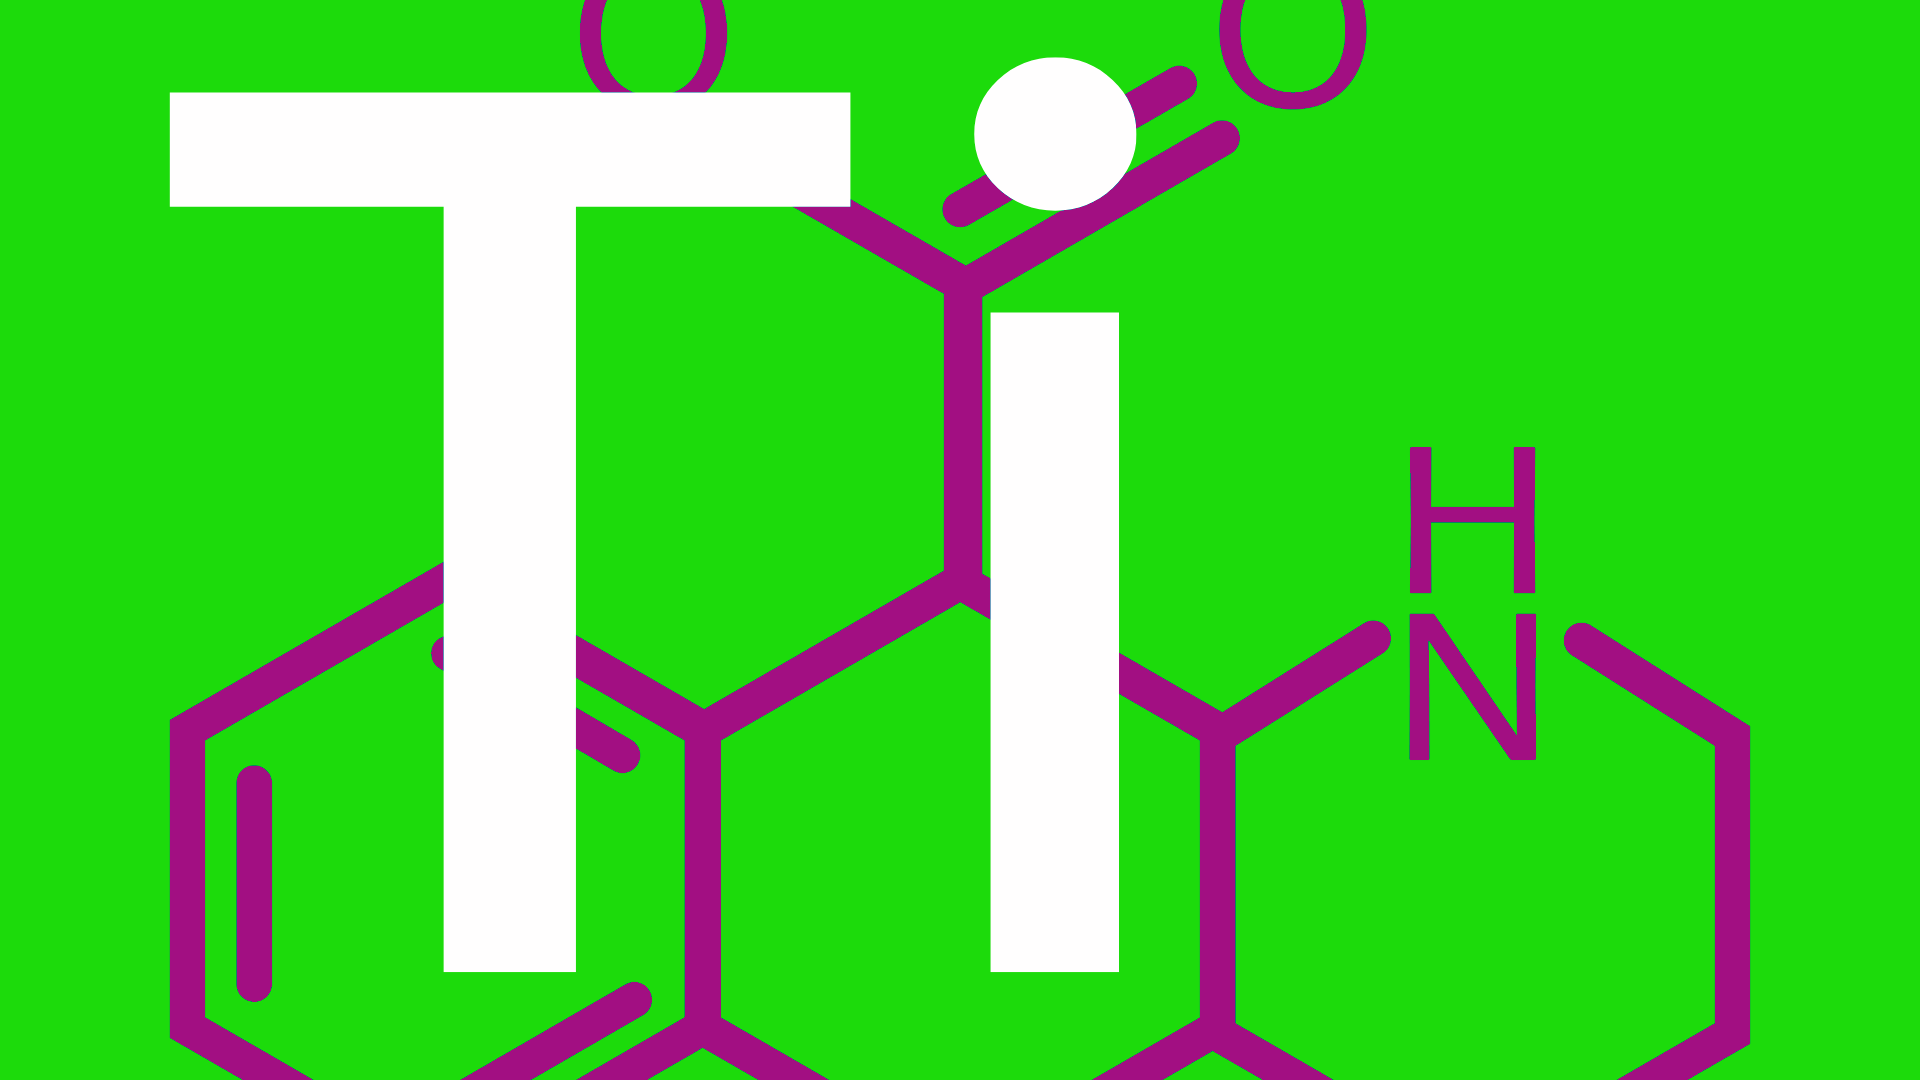
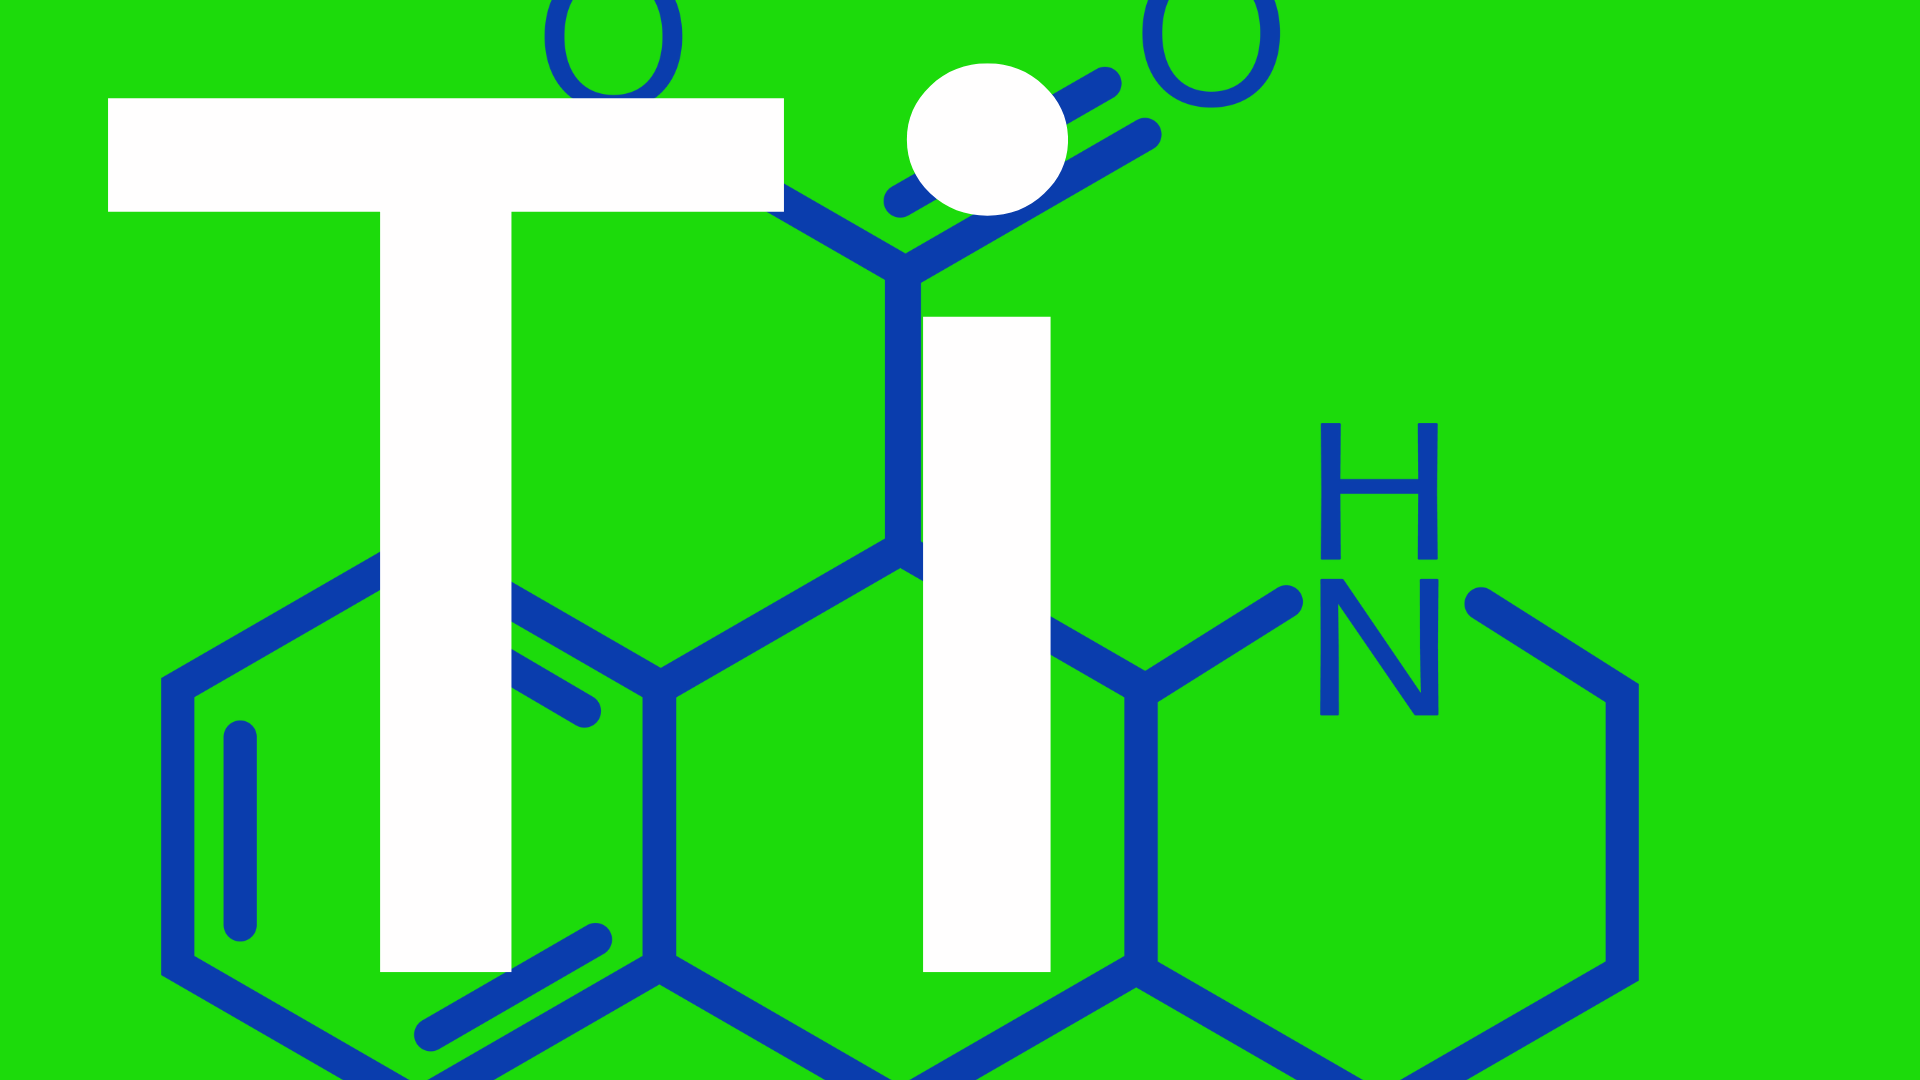
fix colors

Changed region(s): [[0.0312, 0.0, 0.9375, 1.0]]

diff --git a/_sass/_base.scss b/_sass/_base.scss
@@ -275,11 +275,20 @@ footer.footer .social-link:hover {
 
 .service-icon {
   background-color: #fff;
-  color: #1D809F;
+  color: #1800ad;
   height: 7rem;
   width: 7rem;
   display: block;
   line-height: 7.5rem;
   font-size: 2.25rem;
   box-shadow: 0 3px 3px 0 rgba(0, 0, 0, 0.1);
+}
+
+.primary-bg {
+  background-color: #1800ad;
+
+}
+
+.primary-color{
+  coloer: #1800ad;
 }

diff --git a/_includes/header.html b/_includes/header.html
@@ -3,6 +3,6 @@
     <div class="container px-4 px-lg-5 text-center">
         <img class="img-fluid" src="/img/TITLOGO.png" alt="Titanium Creek">
         <h3 class="mb-5"></h3>
-        <a class="btn btn-primary btn-xl" href="#about">Find Out More</a>
+        <a class="btn btn-primary btn-xl primary-bg" href="#about">Find Out More</a>
     </div>
 </header>
